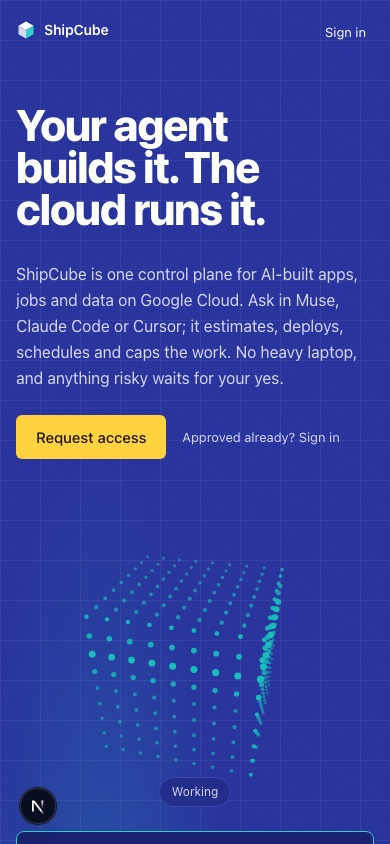
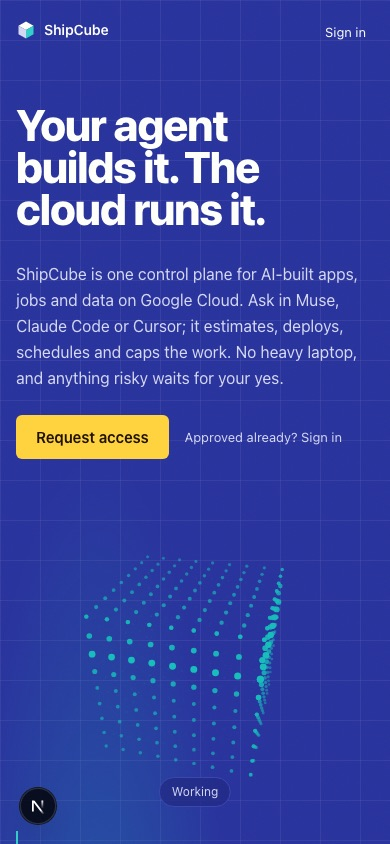
Landing: bolder buttons, no boxes in the diagram or the hero picker
- Landing buttons are semibold, and the request form's button is larger.
- How it fits together drops its cards, outlines and corner marks: open
  columns on the blueprint panel, joined by the labelled connectors, with the
  approver under ShipCube.
- The hero's request cards become a plain list with a teal rule on the active
  one, like the job picker further down.

Changed region(s): [[0.0308, 0.9858, 0.9846, 1.0], [0.4, 0.4929, 0.8615, 0.5545], [0.0923, 0.4929, 0.3692, 0.5237]]

diff --git a/apps/web/src/app/(public)/flow-diagram.tsx b/apps/web/src/app/(public)/flow-diagram.tsx
@@ -1,8 +1,9 @@
 import { cn } from "@/lib/cn";
 
-// "How it fits together", drawn as a blueprint: the agent on the left, ShipCube's four parts in the
-// middle, Google Cloud on the right, and the person who approves underneath. Connectors are labelled
-// with what travels along them. On narrow screens it stacks top to bottom.
+// "How it fits together", drawn on blueprint paper: the agent on the left, ShipCube's four parts in
+// the middle, Google Cloud on the right, and the person who approves underneath. No boxes: open
+// columns, joined by connectors labelled with what travels along them. On narrow screens it stacks,
+// with the approver kept under ShipCube.
 
 const PARTS = [
   { name: "Load estimator", does: "Profiles the code, picks where it runs, prices it" },
@@ -11,107 +12,99 @@ const PARTS = [
   { name: "Data layer", does: "Named measures over your warehouse, not raw SQL" },
 ];
 
+const COLS = "lg:grid-cols-[minmax(0,0.75fr)_minmax(0,auto)_minmax(0,1.5fr)_minmax(0,auto)_minmax(0,0.9fr)]";
+
 export function FlowDiagram() {
   return (
-    <figure className="tone-blue blueprint relative overflow-hidden rounded-2xl border border-border p-5 sm:p-8 lg:p-10">
+    <figure className="tone-blue blueprint overflow-hidden rounded-2xl p-6 sm:p-10 lg:p-12">
       <figcaption className="sr-only">
         Your agent calls ShipCube&apos;s MCP tools. ShipCube estimates, gates, caps and queries, then builds and runs the
         work on Google Cloud. Risky steps send you an approval link; you decide in the console.
       </figcaption>
-      <div className="grid items-stretch gap-0 lg:grid-cols-[minmax(0,0.8fr)_minmax(0,auto)_minmax(0,1.5fr)_minmax(0,auto)_minmax(0,0.9fr)]">
-        <Node label="Your agent" note="Any MCP client">
-          <ul className="flex flex-col gap-1 text-[15px]">
-            {["Muse", "Claude Code", "Cursor"].map((a) => (
-              <li key={a}>{a}</li>
-            ))}
-          </ul>
-        </Node>
+      <div className={cn("grid gap-y-2", COLS)}>
+        <Column title="Your agent" note="Any MCP client">
+          <List items={["Muse", "Claude Code", "Cursor"]} />
+        </Column>
 
-        <Wire label="MCP tool calls" back="results, operations" />
+        <Wire label="MCP tool calls" back="results" />
 
-        <Node label="ShipCube" note="Your workspace" strong>
-          <ul className="grid gap-2 sm:grid-cols-2">
+        <Column title="ShipCube" note="Your workspace" big>
+          <ul className="grid gap-x-8 gap-y-5 sm:grid-cols-2">
             {PARTS.map((p) => (
-              <li key={p.name} className="rounded-lg border border-border bg-surface/70 p-3">
-                <p className="font-display text-[16px] font-semibold">{p.name}</p>
-                <p className="mt-0.5 text-[13px] leading-5 text-fg-muted">{p.does}</p>
+              <li key={p.name}>
+                <p className="font-display text-[17px] font-semibold">{p.name}</p>
+                <p className="mt-1 text-[14px] leading-5 text-fg-muted">{p.does}</p>
               </li>
             ))}
           </ul>
-        </Node>
+        </Column>
 
-        <Wire label="builds and runs" back="usage, logs" className="order-5 lg:order-none" />
+        <Wire label="builds and runs" back="usage" className="order-5 lg:order-none" />
 
-        <Node label="Google Cloud" note="Ours, or your project" className="order-6 lg:order-none">
-          <ul className="flex flex-col gap-1 text-[15px]">
-            {["Cloud Run services", "Cloud Run jobs", "NVIDIA L4 GPUs", "BigQuery, your warehouse"].map((a) => (
-              <li key={a}>{a}</li>
-            ))}
-          </ul>
-        </Node>
+        <Column title="Google Cloud" note="Ours, or your project" className="order-6 lg:order-none">
+          <List items={["Cloud Run services", "Cloud Run jobs", "NVIDIA L4 GPUs", "BigQuery, your warehouse"]} />
+        </Column>
 
         {/* The person: under ShipCube, on every screen size. */}
-        <div className="order-4 flex flex-col items-center pb-2 lg:order-none lg:col-start-3 lg:pb-0">
-          <div className="flex h-12 flex-col items-center" aria-hidden>
-            <span className="w-px flex-1 border-l border-dashed border-[var(--approve)]" />
-          </div>
-          <p className="-mt-1 mb-2 text-[12px] text-[var(--approve)]">approval link, for risky steps only</p>
-          <div className="w-full max-w-[420px] rounded-xl border border-[var(--approve)] bg-surface/70 p-4 text-center">
-            <p className="font-display text-[16px] font-semibold">You, in the console</p>
-            <p className="mt-0.5 text-[13px] leading-5 text-fg-muted">
-              Approve or decline with one click. The agent can&apos;t approve its own requests.
-            </p>
-          </div>
+        <div className="order-4 flex flex-col items-start pt-2 pb-4 lg:order-none lg:col-start-3 lg:items-center lg:pb-0 lg:text-center">
+          <span className="h-10 border-l border-dashed border-[var(--approve)]" aria-hidden />
+          <p className="mt-2 text-[12px] text-[var(--approve)]">approval link, for risky steps only</p>
+          <p className="mt-3 flex items-center gap-2 font-display text-[19px] font-semibold">
+            <span className="size-2 rounded-full bg-[var(--approve)]" aria-hidden />
+            You, in the console
+          </p>
+          <p className="mt-1 max-w-[40ch] text-[14px] leading-5 text-fg-muted">
+            Approve or decline with one click. The agent can&apos;t approve its own requests.
+          </p>
         </div>
       </div>
     </figure>
   );
 }
 
-function Node({
-  label,
+function Column({
+  title,
   note,
-  strong,
+  big,
   className,
   children,
 }: {
-  label: string;
+  title: string;
   note: string;
-  strong?: boolean;
+  big?: boolean;
   className?: string;
   children: React.ReactNode;
 }) {
   return (
-    <div
-      className={cn(
-        "relative rounded-xl border p-4 sm:p-5",
-        strong ? "border-accent bg-surface-2/80" : "border-input-border bg-surface/50",
-        className,
-      )}
-    >
-      {/* Drafting marks on the corners. */}
-      <span className="absolute -top-px -left-px size-2.5 border-t-2 border-l-2 border-accent" aria-hidden />
-      <span className="absolute -right-px -bottom-px size-2.5 border-r-2 border-b-2 border-accent" aria-hidden />
-      <div className="mb-3">
-        <h3 className="font-display text-[19px] font-semibold">{label}</h3>
-        <p className="text-[12px] text-fg-subtle">{note}</p>
-      </div>
-      {children}
+    <div className={cn("py-2", className)}>
+      <h3 className={cn("font-display font-semibold tracking-[-0.01em]", big ? "text-[26px]" : "text-[21px]")}>{title}</h3>
+      <p className="text-[13px] text-fg-subtle">{note}</p>
+      <div className="mt-5">{children}</div>
     </div>
   );
 }
 
-/** A connector between two nodes: across on wide screens, down on narrow ones, labelled both ways. */
+function List({ items }: { items: string[] }) {
+  return (
+    <ul className="flex flex-col gap-1.5 text-[15px]">
+      {items.map((i) => (
+        <li key={i}>{i}</li>
+      ))}
+    </ul>
+  );
+}
+
+/** A connector between two columns: across on wide screens, down on narrow ones, labelled both ways. */
 function Wire({ label, back, className }: { label: string; back: string; className?: string }) {
   return (
-    <div className={cn("flex items-center justify-center py-2 lg:px-1 lg:py-0", className)} aria-hidden>
-      <div className="flex flex-row items-center gap-3 lg:w-[120px] lg:flex-col lg:gap-1.5">
+    <div className={cn("flex items-center py-3 lg:justify-center lg:px-4 lg:py-0 lg:pt-12", className)} aria-hidden>
+      <div className="flex flex-row items-center gap-3 lg:w-[110px] lg:flex-col lg:items-stretch lg:gap-1.5">
+        <span className="h-8 w-px bg-accent lg:order-2 lg:h-px lg:w-full" />
         <span className="text-[12px] whitespace-nowrap text-accent lg:order-1">
           {label} <span className="lg:hidden">&darr;</span>
           <span className="hidden lg:inline">&rarr;</span>
         </span>
-        <span className="h-10 w-px bg-accent lg:order-2 lg:h-px lg:w-full" />
-        <span className="text-[12px] whitespace-nowrap text-fg-subtle lg:order-3">
+        <span className="text-[12px] whitespace-nowrap text-fg-subtle lg:order-3 lg:text-right">
           <span className="lg:hidden">&uarr;</span>
           <span className="hidden lg:inline">&larr;</span> {back}
         </span>

diff --git a/apps/web/src/app/(public)/page.tsx b/apps/web/src/app/(public)/page.tsx
@@ -91,7 +91,7 @@ export default async function Landing() {
               Security
             </a>
             {session ? (
-              <ButtonLink href="/apps" size="sm">
+              <ButtonLink href="/apps" size="sm" className="font-semibold">
                 Open console
               </ButtonLink>
             ) : (
@@ -113,7 +113,7 @@ export default async function Landing() {
                 it estimates, deploys, schedules and caps the work. No heavy laptop, and anything risky waits for your yes.
               </p>
               <div className="mt-6 flex flex-wrap items-center gap-4">
-                <ButtonLink href="#request-access" variant="primary" className="h-11 px-5 text-[15px]">
+                <ButtonLink href="#request-access" variant="primary" className="h-11 px-5 text-[15px] font-semibold">
                   Request access
                 </ButtonLink>
                 <Link href="/sign-in" className="text-fg-muted underline-offset-4 hover:text-fg hover:underline">
@@ -245,7 +245,7 @@ export default async function Landing() {
               {formElsewhere ? (
                 <div className="flex flex-col items-start gap-3">
                   <p className="text-fg-muted">The request form opens on ShipCube&apos;s console.</p>
-                  <ButtonLink href={formElsewhere} variant="primary" className="h-11 px-5 text-[15px]">
+                  <ButtonLink href={formElsewhere} variant="primary" className="h-11 px-5 text-[15px] font-semibold">
                     Request access
                   </ButtonLink>
                 </div>

diff --git a/apps/web/src/app/(public)/hero-stage.tsx b/apps/web/src/app/(public)/hero-stage.tsx
@@ -122,8 +122,8 @@ export function HeroStage() {
         </div>
       </div>
 
-      <div className="flex flex-col gap-3">
-        <div role="group" aria-label="Pick a request to send to your agent" className="grid gap-2 sm:grid-cols-2">
+      <div className="flex flex-col gap-5">
+        <div role="group" aria-label="Pick a request to send to your agent" className="flex flex-col">
           {REQUESTS.map((r, i) => (
             <button
               key={r.team}
@@ -131,12 +131,12 @@ export function HeroStage() {
               onClick={() => pick(i)}
               aria-pressed={i === active}
               className={cn(
-                "rounded-lg border px-3 py-2.5 text-left transition-colors",
-                i === active ? "border-accent bg-accent-soft" : "border-input-border bg-surface/70 hover:border-fg-muted",
+                "flex items-baseline gap-4 border-l-2 py-2 pr-2 pl-4 text-left transition-colors",
+                i === active ? "border-accent text-fg" : "border-fg-subtle/30 text-fg-muted hover:border-fg-subtle hover:text-fg",
               )}
             >
-              <span className="block text-[12px] font-medium text-accent">{r.team}</span>
-              <span className="mt-0.5 block text-[13.5px] leading-5 text-fg">{r.ask}</span>
+              <span className={cn("w-16 shrink-0 text-[13px] font-medium", i === active ? "text-accent" : "text-fg-subtle")}>{r.team}</span>
+              <span className="text-[15px] leading-6">{r.ask}</span>
             </button>
           ))}
         </div>

diff --git a/apps/web/src/components/request-access-form.tsx b/apps/web/src/components/request-access-form.tsx
@@ -109,7 +109,7 @@ export function RequestAccessForm({ apiBase, accountEmail }: { apiBase: string |
         <input id="ra-hp" name={HONEYPOT} type="text" tabIndex={-1} autoComplete="off" defaultValue="" />
       </div>
       <div className="flex flex-wrap items-center gap-3">
-        <Button type="submit" variant="primary" pending={pending}>
+        <Button type="submit" variant="primary" pending={pending} className="h-10 px-4 text-[14px] font-semibold">
           {pending ? "Sending…" : "Request access"}
         </Button>
         {message && (
@@ -119,7 +119,7 @@ export function RequestAccessForm({ apiBase, accountEmail }: { apiBase: string |
         )}
         {offerSignIn && (
           // Signed in without a workspace, the console opens /waitlist with a one-click request.
-          <ButtonLink href="/sign-in?returnTo=%2Fwaitlist" size="sm">
+          <ButtonLink href="/sign-in?returnTo=%2Fwaitlist" size="sm" className="font-semibold">
             Sign in with Google
           </ButtonLink>
         )}
